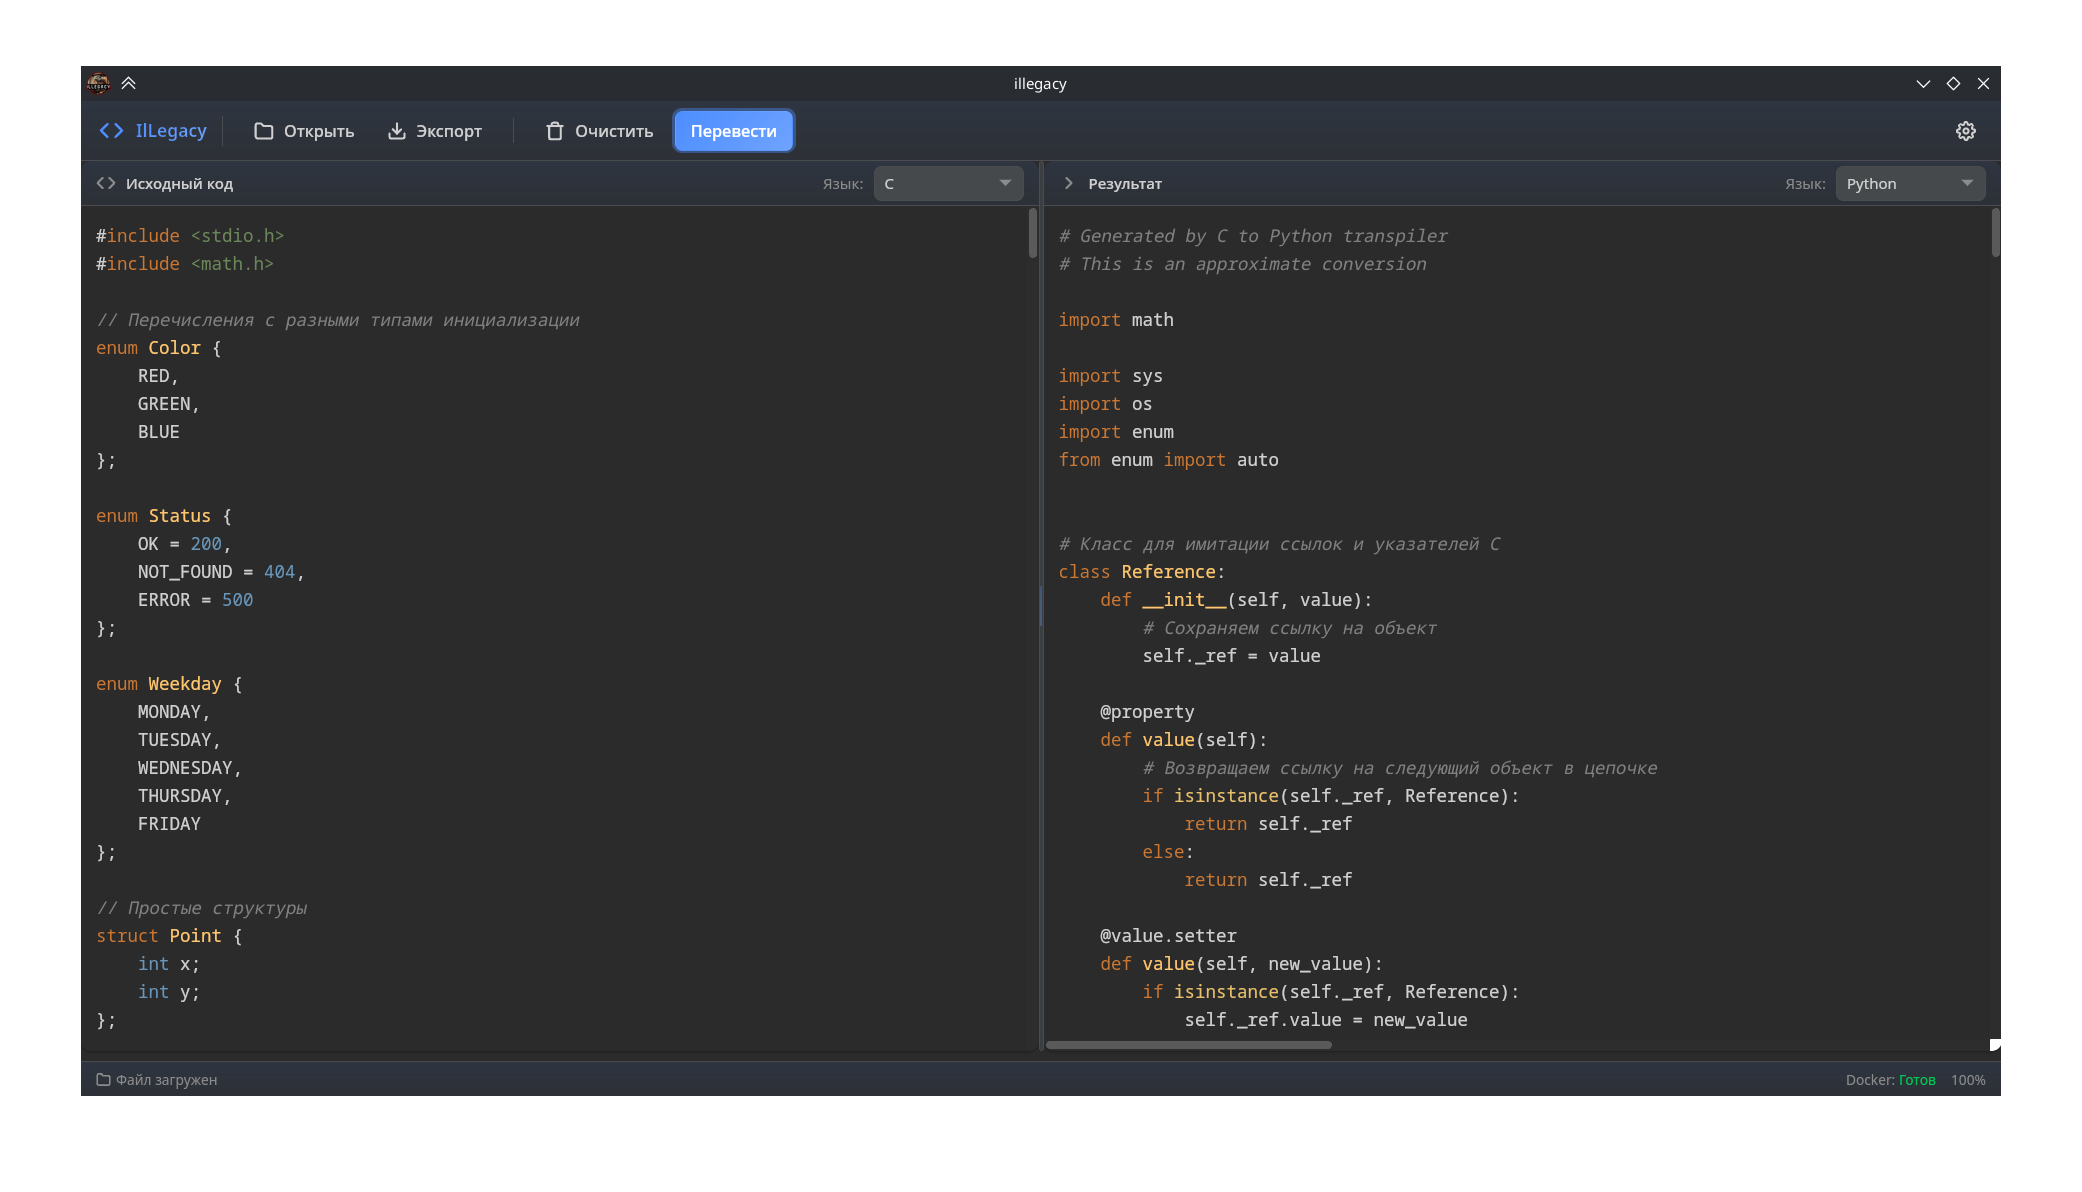
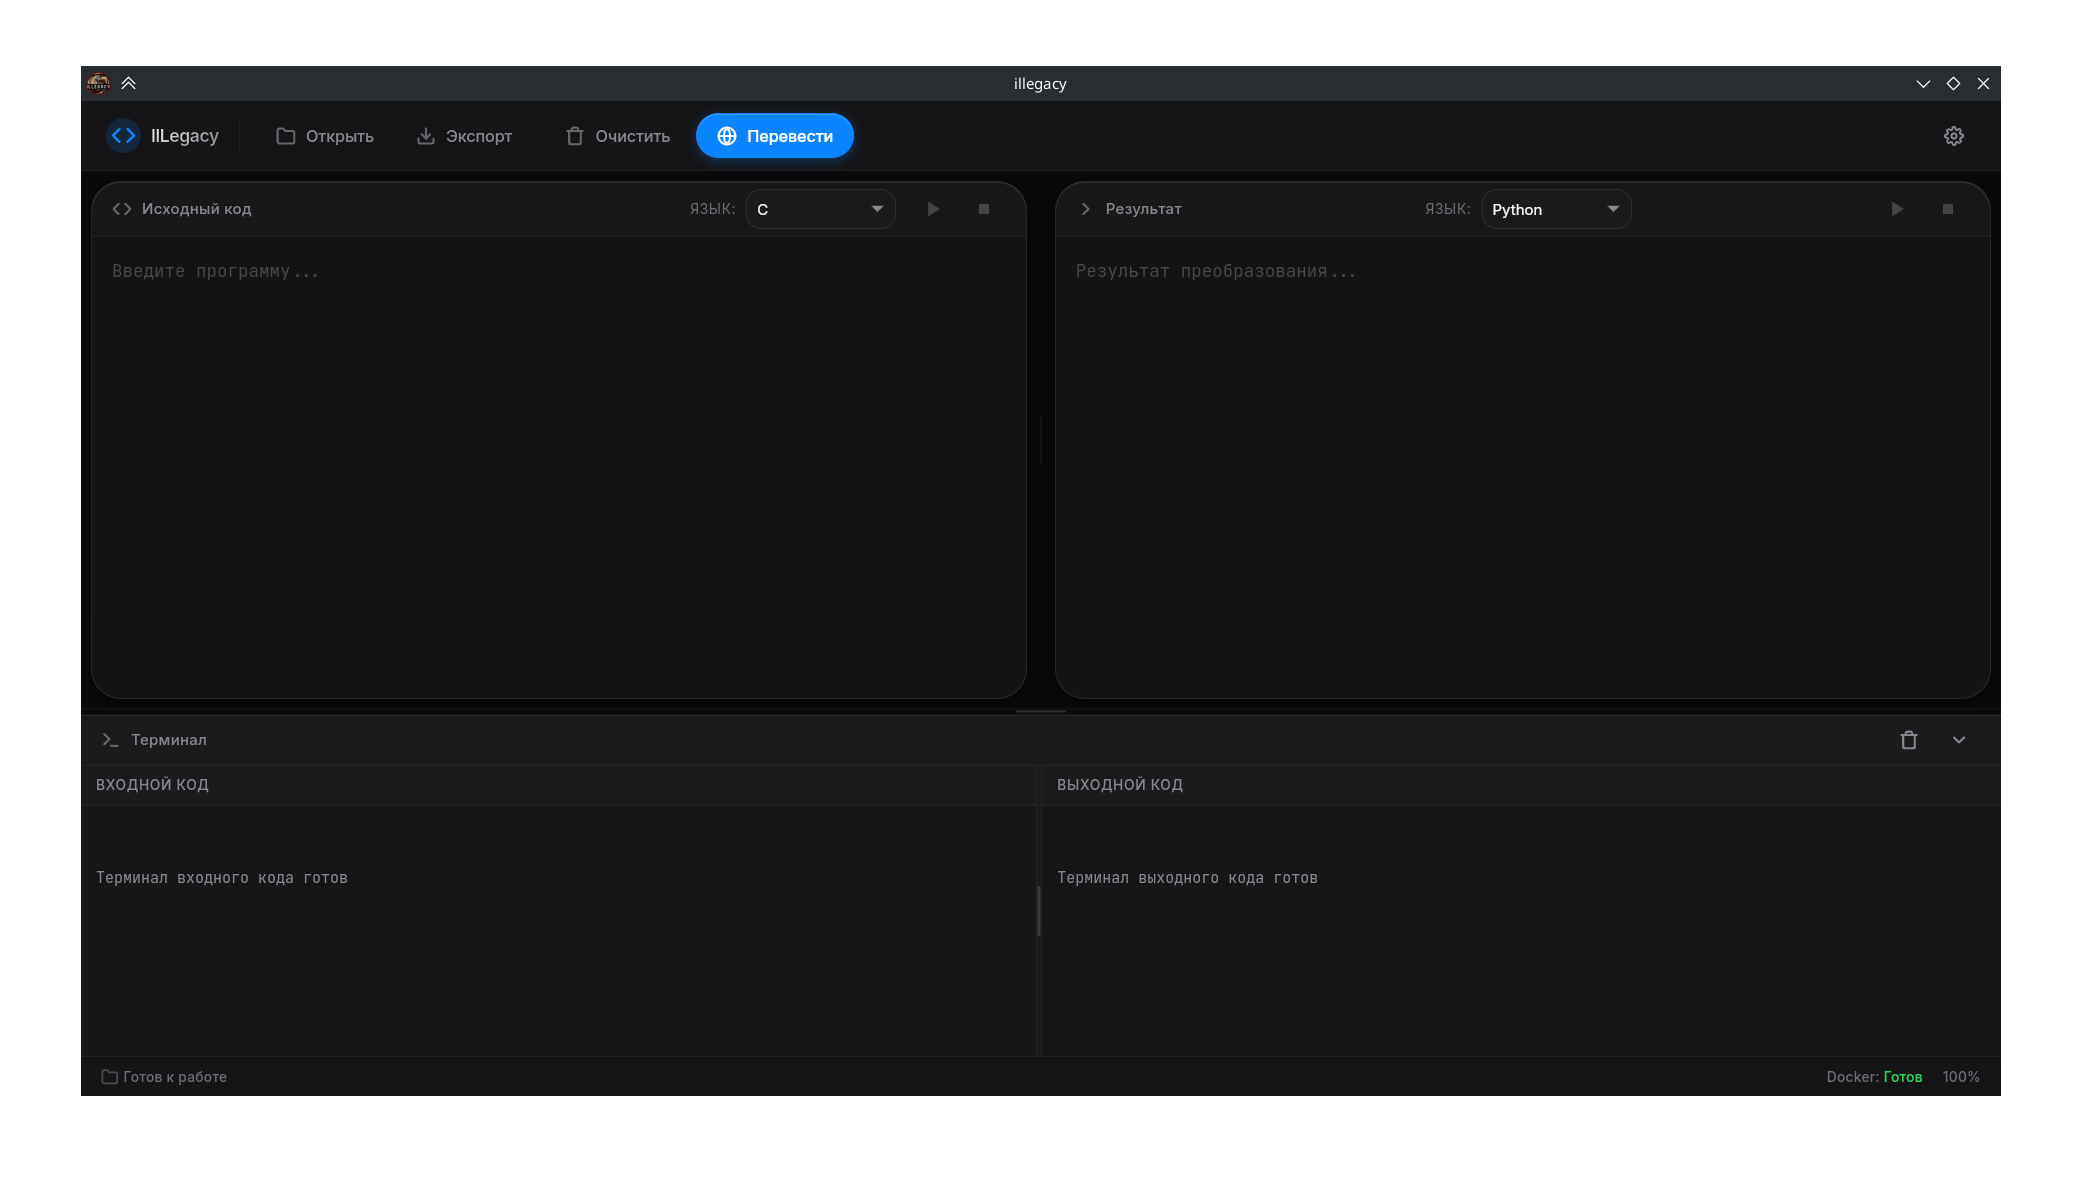
update readme

Changed region(s): [[0.0312, 0.0621, 0.9678, 0.8381], [0.0312, 0.776, 0.9678, 0.9312]]

diff --git a/README.md b/README.md
@@ -126,20 +126,39 @@ cd illegacy
 cargo tauri dev
 ```
 
-### Структура проекта (обобщенная)
+### Структура проекта
 
 ```
 illegacy/
-├── src/                    # Frontend (html+css+js)
-├── src-tauri/              # Backend на Rust
+├── src/                        # Frontend (HTML + CSS + JS)
+│   ├── index.html
+│   ├── css/
+│   └── js/
+├── src-tauri/                  # Backend на Rust
 │   ├── src/
-|   |   ├── parsers/        # Парсеры
-│   │   ├── generators      # Генераторы
-│   │   ├── ast/            # Определения AST
-│   │   └── main.rs         # Точка входа
-|   ├── docker/             # Контейнеры с микросервисами (Для C - микросервис получает AST для дальнейшего парсинга)
-│   └── Cargo.toml          # Rust зависимости
-├── package.json
+│   │   ├── main.rs             # Точка входа Tauri
+│   │   ├── lib.rs
+│   │   ├── ast/                # Определения AST
+│   │   ├── parsers/            # Парсеры языков
+│   │   └── generators/         # Генераторы кода
+│   ├── docker/                 # Контейнеры с микросервисами
+│   │   ├── c-parser/           # Парсер C
+│   │   ├── f2c-service/        # Сервис трансляции C → Python
+│   │   ├── build.sh
+│   │   └── run.sh
+│   ├── capabilities/           # Tauri capabilities
+│   ├── gen/                    # Сгенерированные файлы
+│   ├── icons/                  # Иконки приложения
+│   ├── tests/                  # Тесты
+│   ├── Cargo.toml              # Rust зависимости
+│   ├── Cargo.lock
+│   ├── build.rs
+│   └── tauri.conf.json         # Конфигурация Tauri
+├── .vscode/                    # Настройки VS Code
+├── app-icon.png                # Иконка приложения
+├── mainpage.png                # Скриншот интерфейса
+├── LICENSE                     # Лицензия GPLv3
+├── .gitignore
 └── README.md
 ```
 
